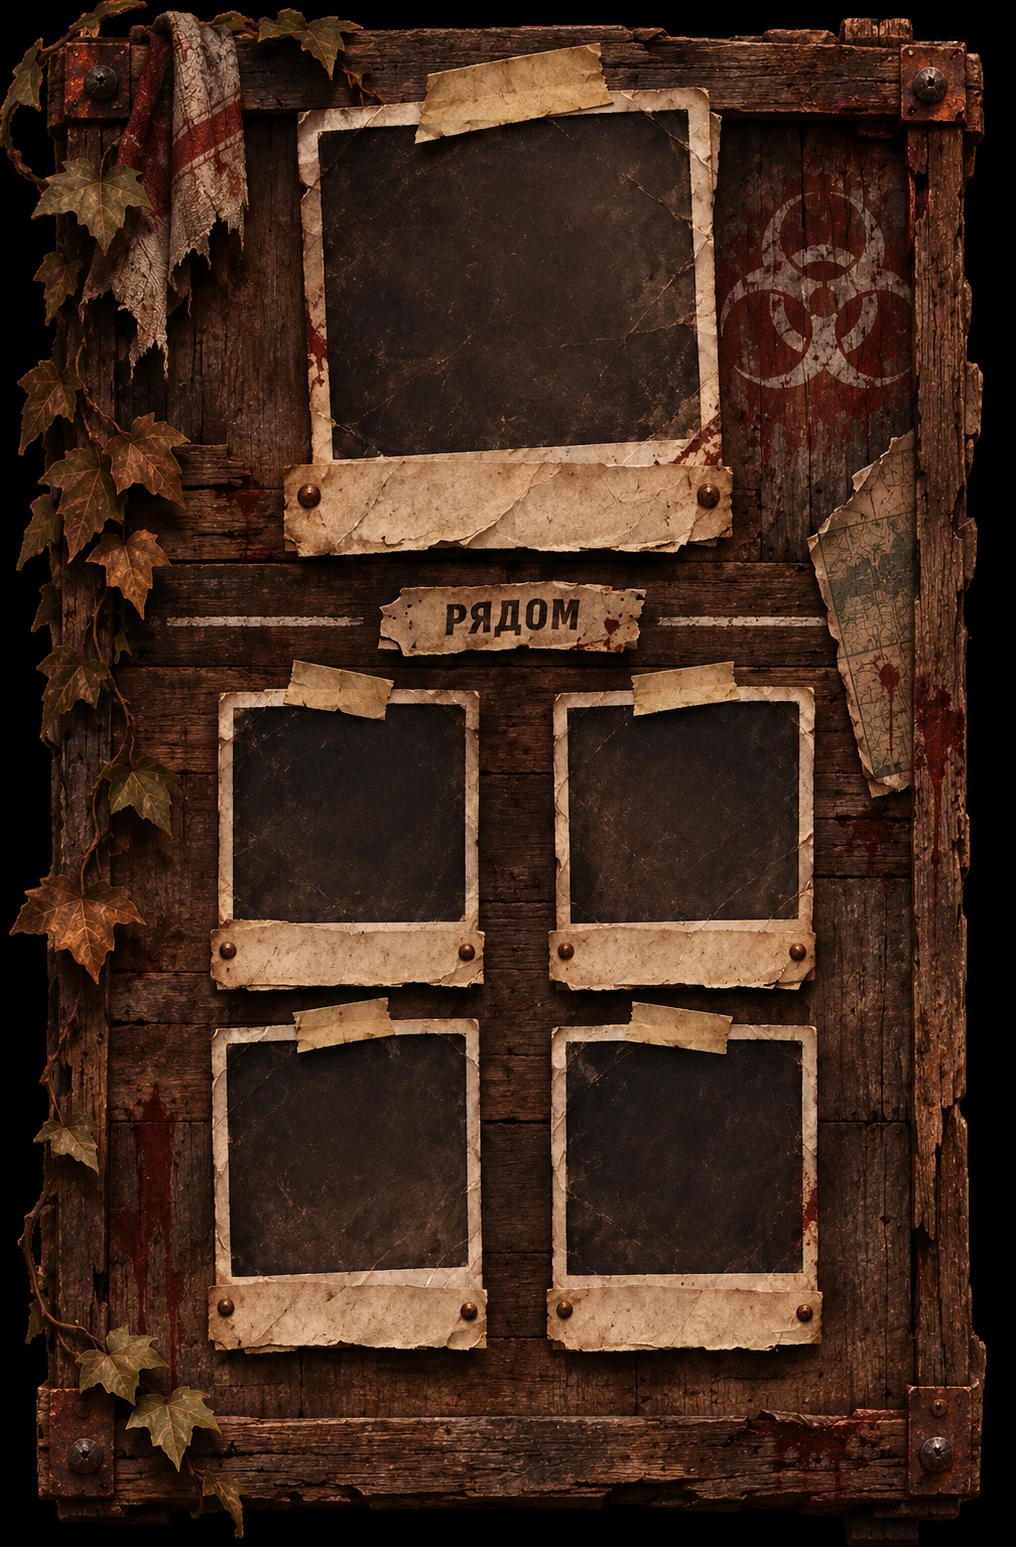
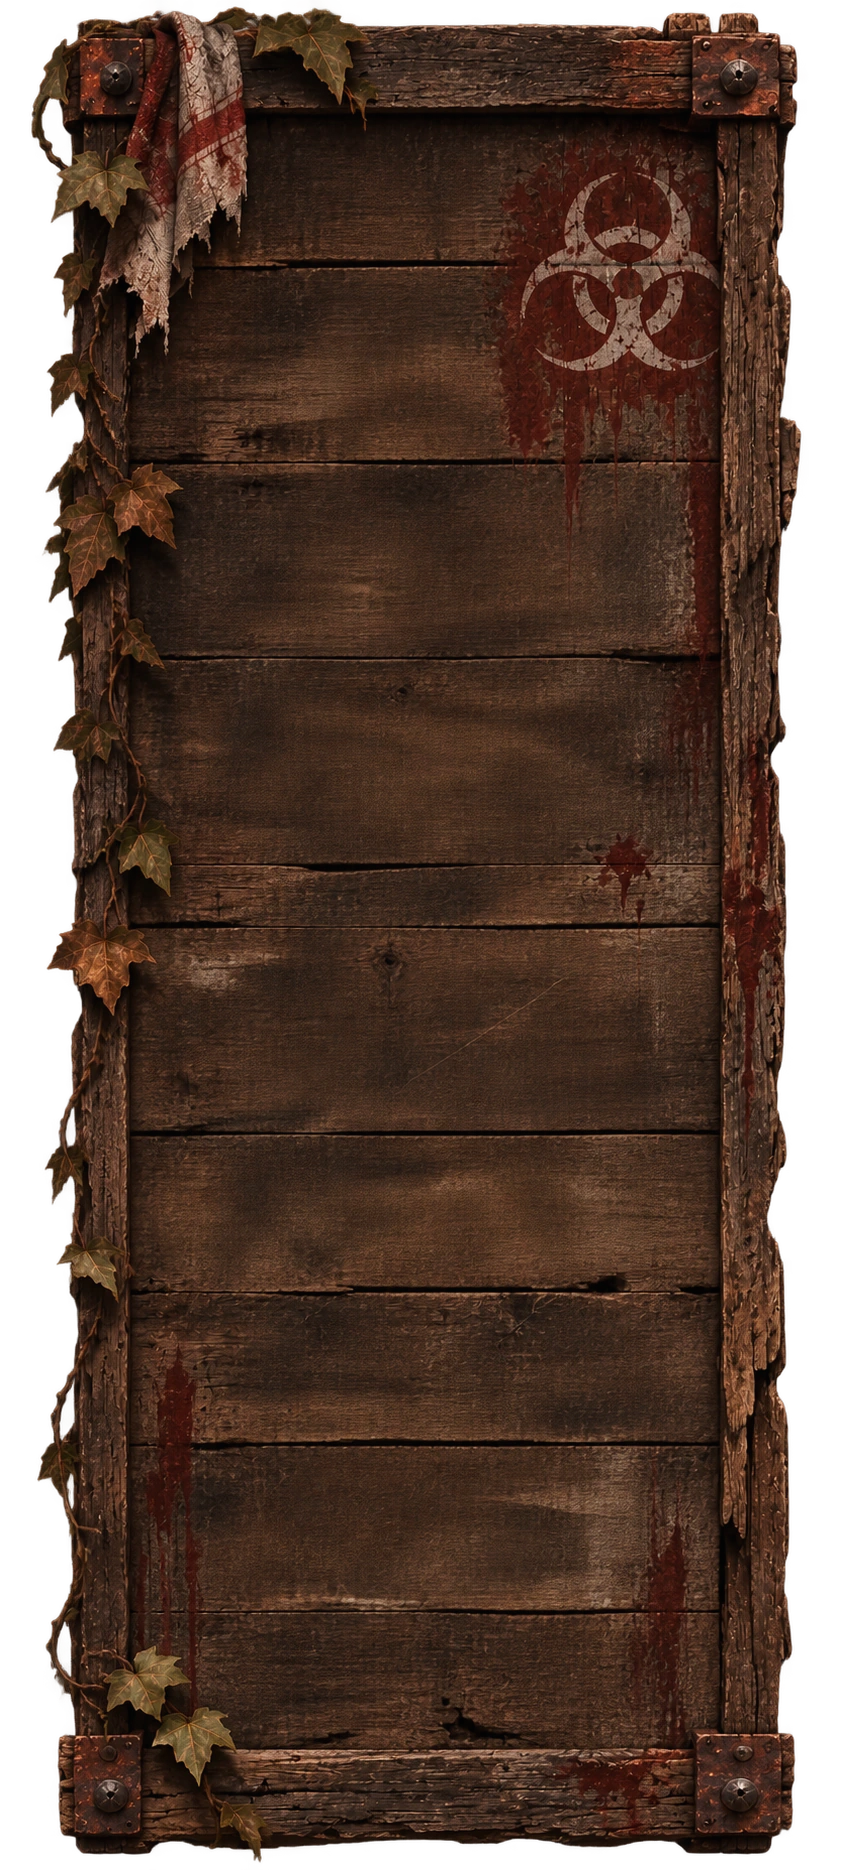
UI v50: delete straight board, clean and extend remaining three WebPs, activate Hazard Dossier full-height

diff --git a/css/survivor-board.css b/css/survivor-board.css
@@ -1,29 +1,29 @@
-/* Survival UI v49 — straight wooden board behind the original live Polaroids.
-   The board is ONE background layer. It contains no built-in photograph,
-   paper frame, text label or tape. All real character portraits, paper WebPs,
-   names, dossier behaviour and the live two-column party list remain intact.
-   Keep the original sidebar width and the companion-list scroll budget. */
+/* Survival UI v50 — clean, extra-tall Hazard Dossier wooden panel.
+   The board contains NO photos, Polaroid slots, labels or tape.
+   Live portraits, approved frame WebPs, names and diary animation are separate.
+   The board occupies the available LEFT RAIL below the logo, with a gap
+   before the bottom edge. The actual game-layout column width is unchanged. */
 
 #game-shell .hero-sidebar > .survivor-board {
   position:relative;
   isolation:isolate;
   display:flex;
   flex-direction:column;
-  flex:0 1 auto;
+  flex:1 1 0;
   gap:8px;
   min-width:0;
   min-height:0;
+  margin:0 0 clamp(10px,1.8vh,23px);
   padding:14px 0 22px;
-  background-image:url("../assets/ui/boards/wooden_board_01_straight.webp");
+  background-color:transparent;
+  background-image:url("../assets/ui/boards/wooden_board_02_hazard_dossier.webp");
   background-repeat:no-repeat;
-  background-position:center;
-  /* Fit the wood panel to the content of BOTH portrait sections.
-     Do not use cover: it would crop off the physical wooden sides. */
+  background-position:center center;
+  /* Full-height wood, without cropping its physical edge. */
   background-size:100% 100%;
 }
 
-/* Preserve original player and companion sections and stacking.
-   The wood never intercepts portrait clicks or dossier hold actions. */
+/* Exactly the pre-existing two real DOM sections: no painted-on portraits. */
 #game-shell .hero-sidebar > .survivor-board > .hero-card,
 #game-shell .hero-sidebar > .survivor-board > .companions-card {
   position:relative;
@@ -33,23 +33,25 @@
   box-shadow:none;
 }
 
-/* The list, not the whole sidebar, still scrolls when survivors accumulate. */
+/* Let new survivors continue down the same board without changing the rail;
+   as before, only the live party list scrolls when there are many. */
+#game-shell .hero-sidebar > .survivor-board > .hero-card {
+  flex:0 0 auto;
+}
 #game-shell .hero-sidebar > .survivor-board > .companions-card {
   flex:0 1 auto;
-  min-height:100px;
+  min-height:96px;
   overflow:hidden;
 }
 #game-shell .hero-sidebar > .survivor-board .party-list {
   min-height:0;
   overflow-y:auto;
 }
-
-/* Only trim decorative padding on short screens; never widen the sidebar
-   or change the dimensions of the approved paper/portrait assets. */
 @media(max-height:820px) {
   #game-shell .hero-sidebar > .survivor-board {
     padding-top:8px;
     padding-bottom:12px;
+    margin-bottom:11px;
     gap:5px;
   }
 }
@@ -57,6 +59,7 @@
   #game-shell .hero-sidebar > .survivor-board {
     padding-top:4px;
     padding-bottom:7px;
+    margin-bottom:7px;
     gap:2px;
   }
 }

diff --git a/index.html b/index.html
@@ -21,7 +21,7 @@
   <link rel="stylesheet" href="css/polaroid-player.css?v=survival-ui-45">
   <link rel="stylesheet" href="css/companions-polaroids.css?v=survival-ui-48">
   <link rel="stylesheet" href="css/background-accents.css?v=survival-ui-47">
-  <link rel="stylesheet" href="css/survivor-board.css?v=survival-ui-49">
+  <link rel="stylesheet" href="css/survivor-board.css?v=survival-ui-50">
 </head>
 <body>
 <div class="game-shell" id="game-shell">

diff --git a/assets/ui/boards/README.md b/assets/ui/boards/README.md
@@ -1,17 +1,22 @@
-# Wooden Survivor Boards
+# Wooden Survivor Boards — clean/tall set (v50)
 
-Four user-selected design variants, exported as WebP from the original generated PNGs.
-All four are stored in this folder. Only `wooden_board_01_straight.webp` is activated
-by `css/survivor-board.css`.
+The **straight board (01) has been deleted from the current branch**.
+The three remaining WebP assets have been regenerated as tall, empty
+wooden surfaces with no baked-in character portraits, paper photo frames,
+tape, text labels, or reserved Polaroid positions.
 
-- `wooden_board_01_straight.webp`: the straight, empty wooden board (transparent edge), used as the background behind the live portraits.
-- `wooden_board_02_hazard_dossier.webp`: alternative detailed layout with printed photo placeholders.
-- `wooden_board_03_worn_wood.webp`: alternative distressed board with marked attachment positions.
-- `wooden_board_04_survivor_polaroids.webp`: alternative board with four printed Polaroid slots.
+| Asset | Status | Image dimensions |
+| --- | --- | --- |
+| `wooden_board_02_hazard_dossier.webp` | **Active** clean board with distressed hazard symbol and ivy | 841 × 1870 |
+| `wooden_board_03_worn_wood.webp` | Clean alternative wooden surface | 879 × 1790 |
+| `wooden_board_04_survivor_polaroids.webp` | Clean alternative wooden surface | 916 × 1717 |
 
-**Do not use the alternatives as the active board behind the current live photos
-without redesign:** their pre-painted paper/Polaroid slots would duplicate the approved
-`polaroid_player_paper_frame.webp` and `polaroid_player_tape.webp` layers.
+All three preserve transparency along the edges and have increased vertical
+aspect ratios for the extended survivor board beneath the game's logo.
 
-Real character portraits, their HTML labels, 2-column nearby list and dossier opening
-animation remain separate from these backgrounds.
+The actual photograph, paper frame, tape and HTML name for Oliver and each
+nearby NPC remain separate interactive DOM layers. They are NOT embedded in
+these board images. The two-column dynamic NPC list continues to scroll.
+
+The board is styled by `css/survivor-board.css`. The surrounding sidebar
+and primary game-layout widths are unchanged.
